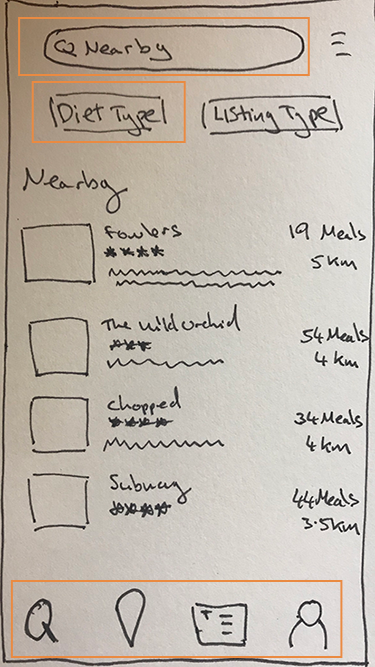
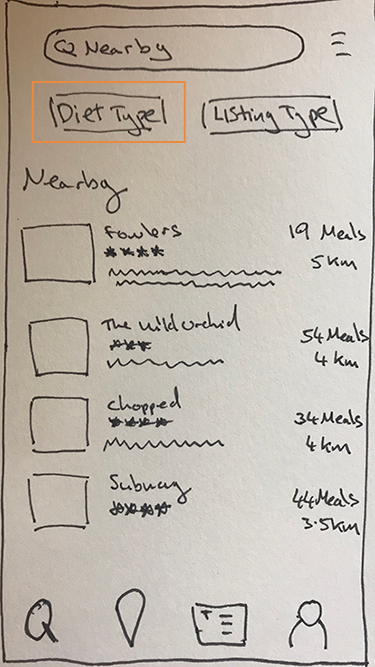
adding more testing images to healthy move

diff --git a/portfolio/healthymove.html b/portfolio/healthymove.html
@@ -590,18 +590,11 @@ I want to be able to find healthy meals and to also read what others have said a
       <th scope="row">2</th>
       <td>Book a meal at a restaurant.</td>
     </tr>
- <tr>
-      <th scope="row">3</th>
-      <td>Add a review for a listing.</td>
-    </tr>
     <tr>
-      <th scope="row">4</th>
+      <th scope="row">3</th>
       <td>Search by a listing name.</td>
     </tr>
-    <tr>
-      <th scope="row">5</th>
-      <td>	Locate and use the map radius filter.</td>
-    </tr>
+   
     
     
   </tbody>
@@ -627,21 +620,86 @@ I want to be able to find healthy meals and to also read what others have said a
                        
                        <div class="row">
 
-	 <div class="col-lg-3 col-md-3 col-sm-6 visible-lg visible-md visible-sm">
-			<p style="text-align:center;">Explore - Before Testing</P>
+	 <div class="col-lg-3 col-md-3 col-sm-6 visible-lg visible-md visible-sm ">
+			<p style="text-align:center;">Diet Filter - Before Testing</P>
 			
 	</div>
 	
-	<div class="col-xs-6 visible-xs">
+	<div class="col-xs-6 visible-xs ">
 		<p style="text-align:center;">Before Testing</P>
 	</div>
 	
 	
-	<div class="col-lg-3 col-md-3 col-sm-6 visible-lg visible-md visible-sm">
-			<p style="text-align:center;">Explore - After Testing</p>
+	<div class="col-lg-3 col-md-3 col-sm-6 visible-lg visible-md visible-sm ">
+			<p style="text-align:center;">Diet Filter - After Testing</p>
 			</div>
 			
-				<div class="col-xs-6 visible-xs">
+				<div class="col-xs-6 visible-xs ">
+		<p style="text-align:center;">After Testing</P>
+	</div>
+		
+	</div> <!-- close row -->
+                       
+                         
+                        
+                       
+                       
+                       	<div class="row">
+		<div class="col-xs-6 col-sm-6 col-md-3 col-lg-3 image-padding table-top-padding">
+            	<img src="../assets/images/maininterface_web.png" style="background-color:#FFF;" class="img-responsive" alt="Savings Before">
+	</div>
+	
+		<div class="col-xs-6 col-sm-6 col-md-3 col-lg-3 image-padding table-top-padding">
+            	<img src="../assets/images/explorenofilter_test.png" style="background-color:#FFF;" class="img-responsive" alt="Savings Before">
+	</div>
+	
+	
+	
+	
+		<div class="col-xs-12 col-sm-12 col-md-6 col-lg-6 image-padding table-top-padding">
+			
+	         <p class="portfolio-detail-body">
+	         	<ul class="portfolio-detail-body">
+	         			<Li>
+			 Users did not like the original sketches for the diet filter and listing filter options. It was felt that these 
+			 options were not very functional and could be implemented in a better way.
+			 
+		</Li>
+		<p></p>
+	         		
+	         		<Li>
+			 A later design changed the filters so that the diet filter buttons on the homepage were more
+                       intuitive and visually pleasing. Horizontal scrolling buttons were to be used for the various diet filter choices.
+                       The option to filter by listings was moved to the main filter menu, that opens on a separate screen.
+		</Li>
+		
+		
+	
+</ul>
+     
+            </div>
+            
+            </div> <!--close row -->
+                       
+                       
+                       
+                        <div class="row">
+
+	 <div class="col-lg-3 col-md-3 col-sm-6 visible-lg visible-md visible-sm ">
+			<p style="text-align:center;">Booking - Before Testing</P>
+			
+	</div>
+	
+	<div class="col-xs-6 visible-xs image-padding table-top-padding">
+		<p style="text-align:center;">Before Testing</P>
+	</div>
+	
+	
+	<div class="col-lg-3 col-md-3 col-sm-6 visible-lg visible-md visible-sm ">
+			<p style="text-align:center;">Booking - After Testing</p>
+			</div>
+			
+				<div class="col-xs-6 visible-xs image-padding table-top-padding">
 		<p style="text-align:center;">After Testing</P>
 	</div>
 		
@@ -651,21 +709,16 @@ I want to be able to find healthy meals and to also read what others have said a
                        
                        
                        
-                       
-                       
-                       
-                       
-                       
-                       
-                       
                        	<div class="row">
-		<div class="col-xs-6 col-sm-6 col-md-3 col-lg-3 ">
-            	<img src="../assets/images/maininterface_web.png" style="background-color:#FFF;" class="img-responsive" alt="Savings Before">
+		<div class="col-xs-6 col-sm-6 col-md-3 col-lg-3 image-padding table-top-padding">
+            	<img src="../assets/images/book_sketch.png" style="background-color:#FFF;" class="img-responsive" alt="Savings Before">
 	</div>
 	
-		<div class="col-xs-6 col-sm-6 col-md-3 col-lg-3 ">
-            	<img src="../assets/images/explorenofilter_test.png" style="background-color:#FFF;" class="img-responsive" alt="Savings Before">
+		<div class="col-xs-6 col-sm-6 col-md-3 col-lg-3 image-padding table-top-padding ">
+            	<img src="../assets/images/Fowlers_grey.png" style="background-color:#FFF;" class="img-responsive" alt="Savings Before">
 	</div>
+	
+	
 	
 	
 		<div class="col-xs-12 col-sm-12 col-md-6 col-lg-6 ">
@@ -675,19 +728,81 @@ I want to be able to find healthy meals and to also read what others have said a
 	         		
 	         		
 	         		<Li>
-			  The diet filter buttons on the homepage were changed to be more
-                       intuitive and visually pleasing. Horizontal scrolling buttons were to be used
-                       with an additional filter button that would open a separate screen of extra filter options.
+			  Users found the booking menu to be confusing. An original idea that was sketched was to provide an option where the user could choose the number
+			  of people for the booking, and then choose the 'book' option button. 
+			  
 		</Li>
 		<p></p>
 		<LI>
-				It was also decided to redesign 
-                       the footer navigation reducing complexity
-                       so that there would be only three main sections needed - 'Explore', 'Map' and 'Profile'.
+				This option was removed in a later design, the user would now be presented with just the 'book' option and once they have clicked
+				on this they could then choose number of people later in the booking process.
 		</LI>
+		
+	
+</ul>
+      </p>
+            </div>
+                 </div> <!--close row -->
+            
+             <div class="row">
+
+	 <div class="col-lg-3 col-md-3 col-sm-6 visible-lg visible-md visible-sm ">
+			<p style="text-align:center;">Search - Before Testing</P>
+			
+	</div>
+	
+	<div class="col-xs-6 visible-xs image-padding table-top-padding">
+		<p style="text-align:center;">Before Testing</P>
+	</div>
+	
+	
+	<div class="col-lg-3 col-md-3 col-sm-6 visible-lg visible-md visible-sm ">
+			<p style="text-align:center;">Search - After Testing</p>
+			</div>
+			
+				<div class="col-xs-6 visible-xs image-padding table-top-padding">
+		<p style="text-align:center;">After Testing</P>
+	</div>
+		
+	</div> <!-- close row -->
+                       
+            
+            
+            
+            
+            
+            
+       
+                       
+                       
+                       <div class="row">
+		<div class="col-xs-6 col-sm-6 col-md-3 col-lg-3 image-padding table-top-padding">
+            	<img src="../assets/images/maininterface_web_search.png" style="background-color:#FFF;" class="img-responsive" alt="Savings Before">
+	</div>
+	
+		<div class="col-xs-6 col-sm-6 col-md-3 col-lg-3 image-padding table-top-padding">
+            	<img src="../assets/images/explorenofilter_test.png" style="background-color:#FFF;" class="img-responsive" alt="Savings Before">
+	</div>
+	
+	
+	
+	
+		<div class="col-xs-12 col-sm-12 col-md-6 col-lg-6 image-padding table-top-padding">
+			
+	         <p class="portfolio-detail-body">
+	         	<ul class="portfolio-detail-body">
+	         		
+	         		
+	         	
+	
+		<LI>
+				Users could not find where to search by restaurant name.
+
+		</LI>
+			<p></p>
 		<li>
-			The 'Explore' screen should allow users to search by listing name on the same screen as being able to filter 
-			by diet requirement and also change their location using a drop down menu.
+			In a redesign the 'Explore' screen allows users to search by listing name on the same screen as being able to filter 
+			by diet requirement and they can also change their location using a drop down menu.
 		</li>
 		
 	
@@ -696,15 +811,71 @@ I want to be able to find healthy meals and to also read what others have said a
             </div>
             
             </div> <!--close row -->
-                       
-                       
-                       
-                       
-                       
-                       
-                       
-                       
                       
+	   
+	   
+	    <div class="row">
+
+	 <div class="col-lg-3 col-md-3 col-sm-6 visible-lg visible-md visible-sm ">
+			<p style="text-align:center;">Footer Navigation - Before Testing</P>
+			
+	</div>
+	
+	<div class="col-xs-6 visible-xs image-padding table-top-padding">
+		<p style="text-align:center;">Before Testing</P>
+	</div>
+	
+	
+	<div class="col-lg-3 col-md-3 col-sm-6 visible-lg visible-md visible-sm ">
+			<p style="text-align:center;">Footer Navigation - After Testing</p>
+			</div>
+			
+				<div class="col-xs-6 visible-xs image-padding table-top-padding">
+		<p style="text-align:center;">After Testing</P>
+	</div>
+		
+	</div> <!-- close row -->
+	   
+	   
+	   
+	   
+	   	<div class="row">
+		<div class="col-xs-6 col-sm-6 col-md-3 col-lg-3 image-padding table-top-padding">
+            	<img src="../assets/images/maininterface_web_footer.png" style="background-color:#FFF;" class="img-responsive" alt="Savings Before">
+	</div>
+	
+		<div class="col-xs-6 col-sm-6 col-md-3 col-lg-3 image-padding table-top-padding">
+            	<img src="../assets/images/explorenofilter_test.png" style="background-color:#FFF;" class="img-responsive" alt="Savings Before">
+	</div>
+	
+	
+	
+	
+		<div class="col-xs-12 col-sm-12 col-md-6 col-lg-6 image-padding table-top-padding">
+			
+	         <p class="portfolio-detail-body">
+	         	<ul class="portfolio-detail-body">
+	         			<Li>
+			 Feedback from the usability tests also lead to a re-design of the footer menu.
+			 
+		</Li>
+		<p></p>
+		<LI>
+				It was decided to re-design 
+                       the footer navigation reducing complexity
+                       so that there would be only three main sections needed - 'Explore', 'Map' and 'Profile'.
+		</LI>
+	
+		
+	
+</ul>
+     
+            </div>
+            
+            </div> <!--close row -->
+	   
+	   
+	   
 	   
 	         
 	         

diff --git a/portfolio/righttrack.html b/portfolio/righttrack.html
@@ -1128,7 +1128,6 @@ The font size for the job description has been increased to improve accessibilit
 	         <div class="row">
             	  	<div class="col-xs-12 image-padding ">
 	  	   
-	         
 	         <div class="embed-responsive embed-responsive-4by3">
             
 	        <iframe class="embed-responsive-item" style="border: 1px solid rgba(0, 0, 0, 0.1);   " width="800" height="450" src="https://www.figma.com/embed?embed_host=share&url=https%3A%2F%2Fwww.figma.com%2Fproto%2FhfLJGHbVyZiOh9iiwsybF7%2FRight-Track-Colour-V2%3Fnode-id%3D514%253A0%26scaling%3Dscale-down&chrome=DOCUMENTATION" allowfullscreen></iframe>
@@ -1136,6 +1135,12 @@ The font size for the job description has been increased to improve accessibilit
              </div>
             </div>
             </div>
+            
+            
+            
+            
+            
+            
             
             
             <div class="row">
